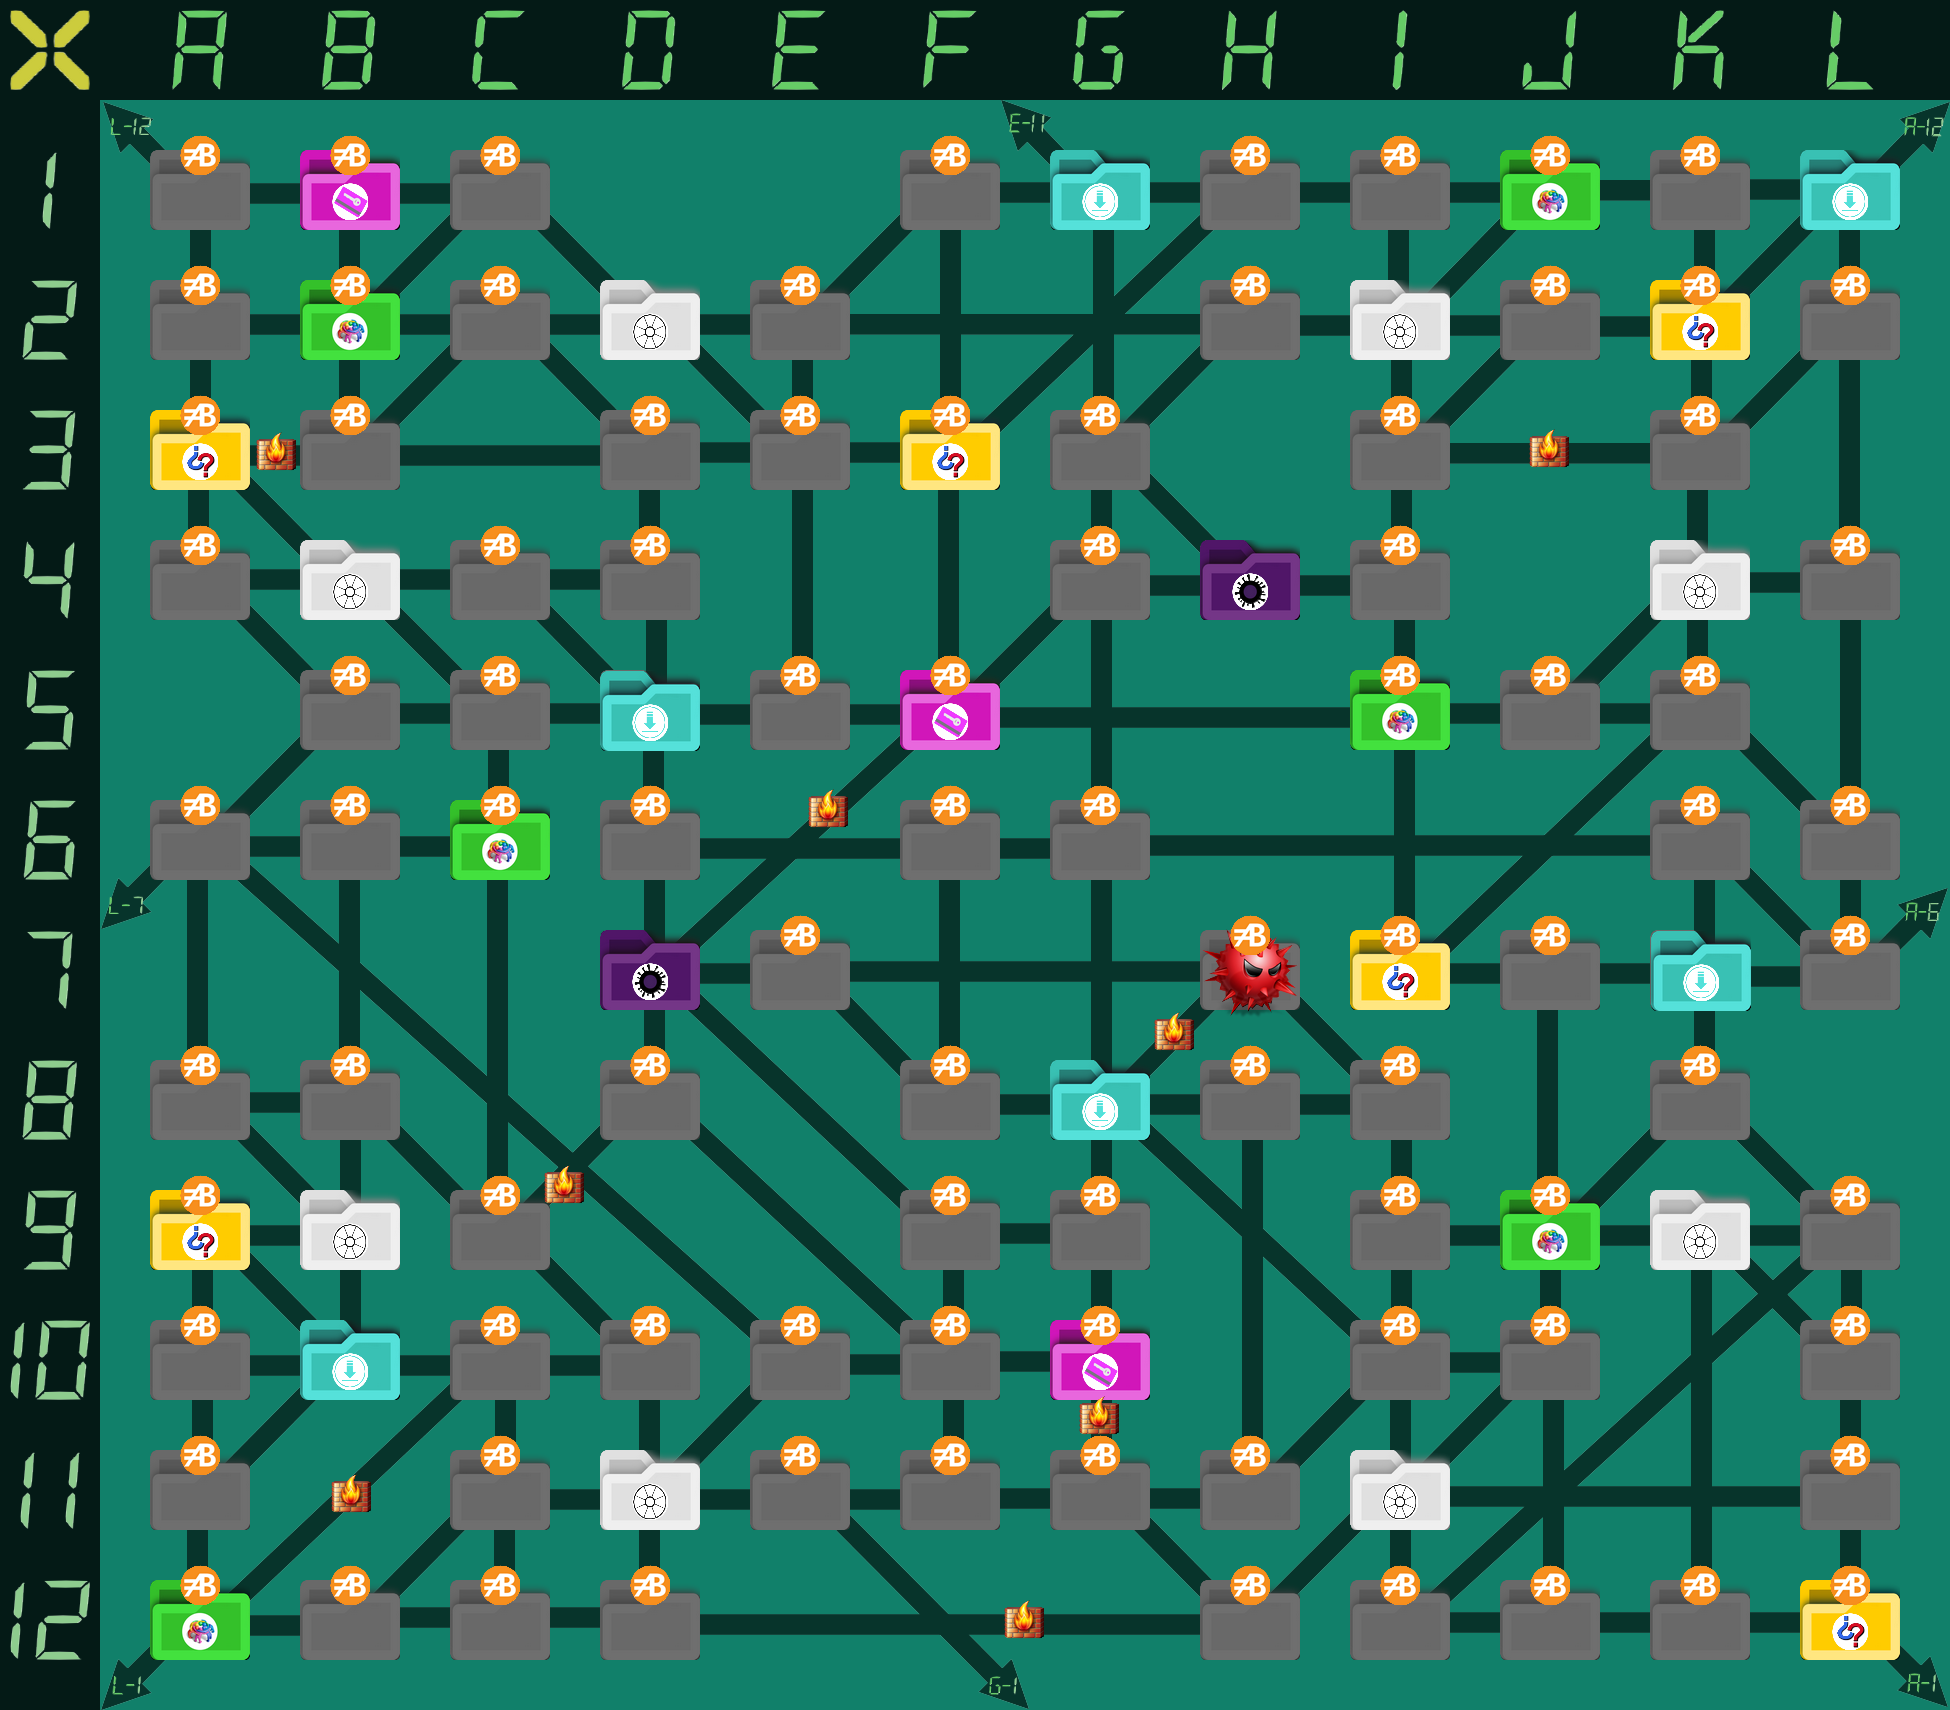
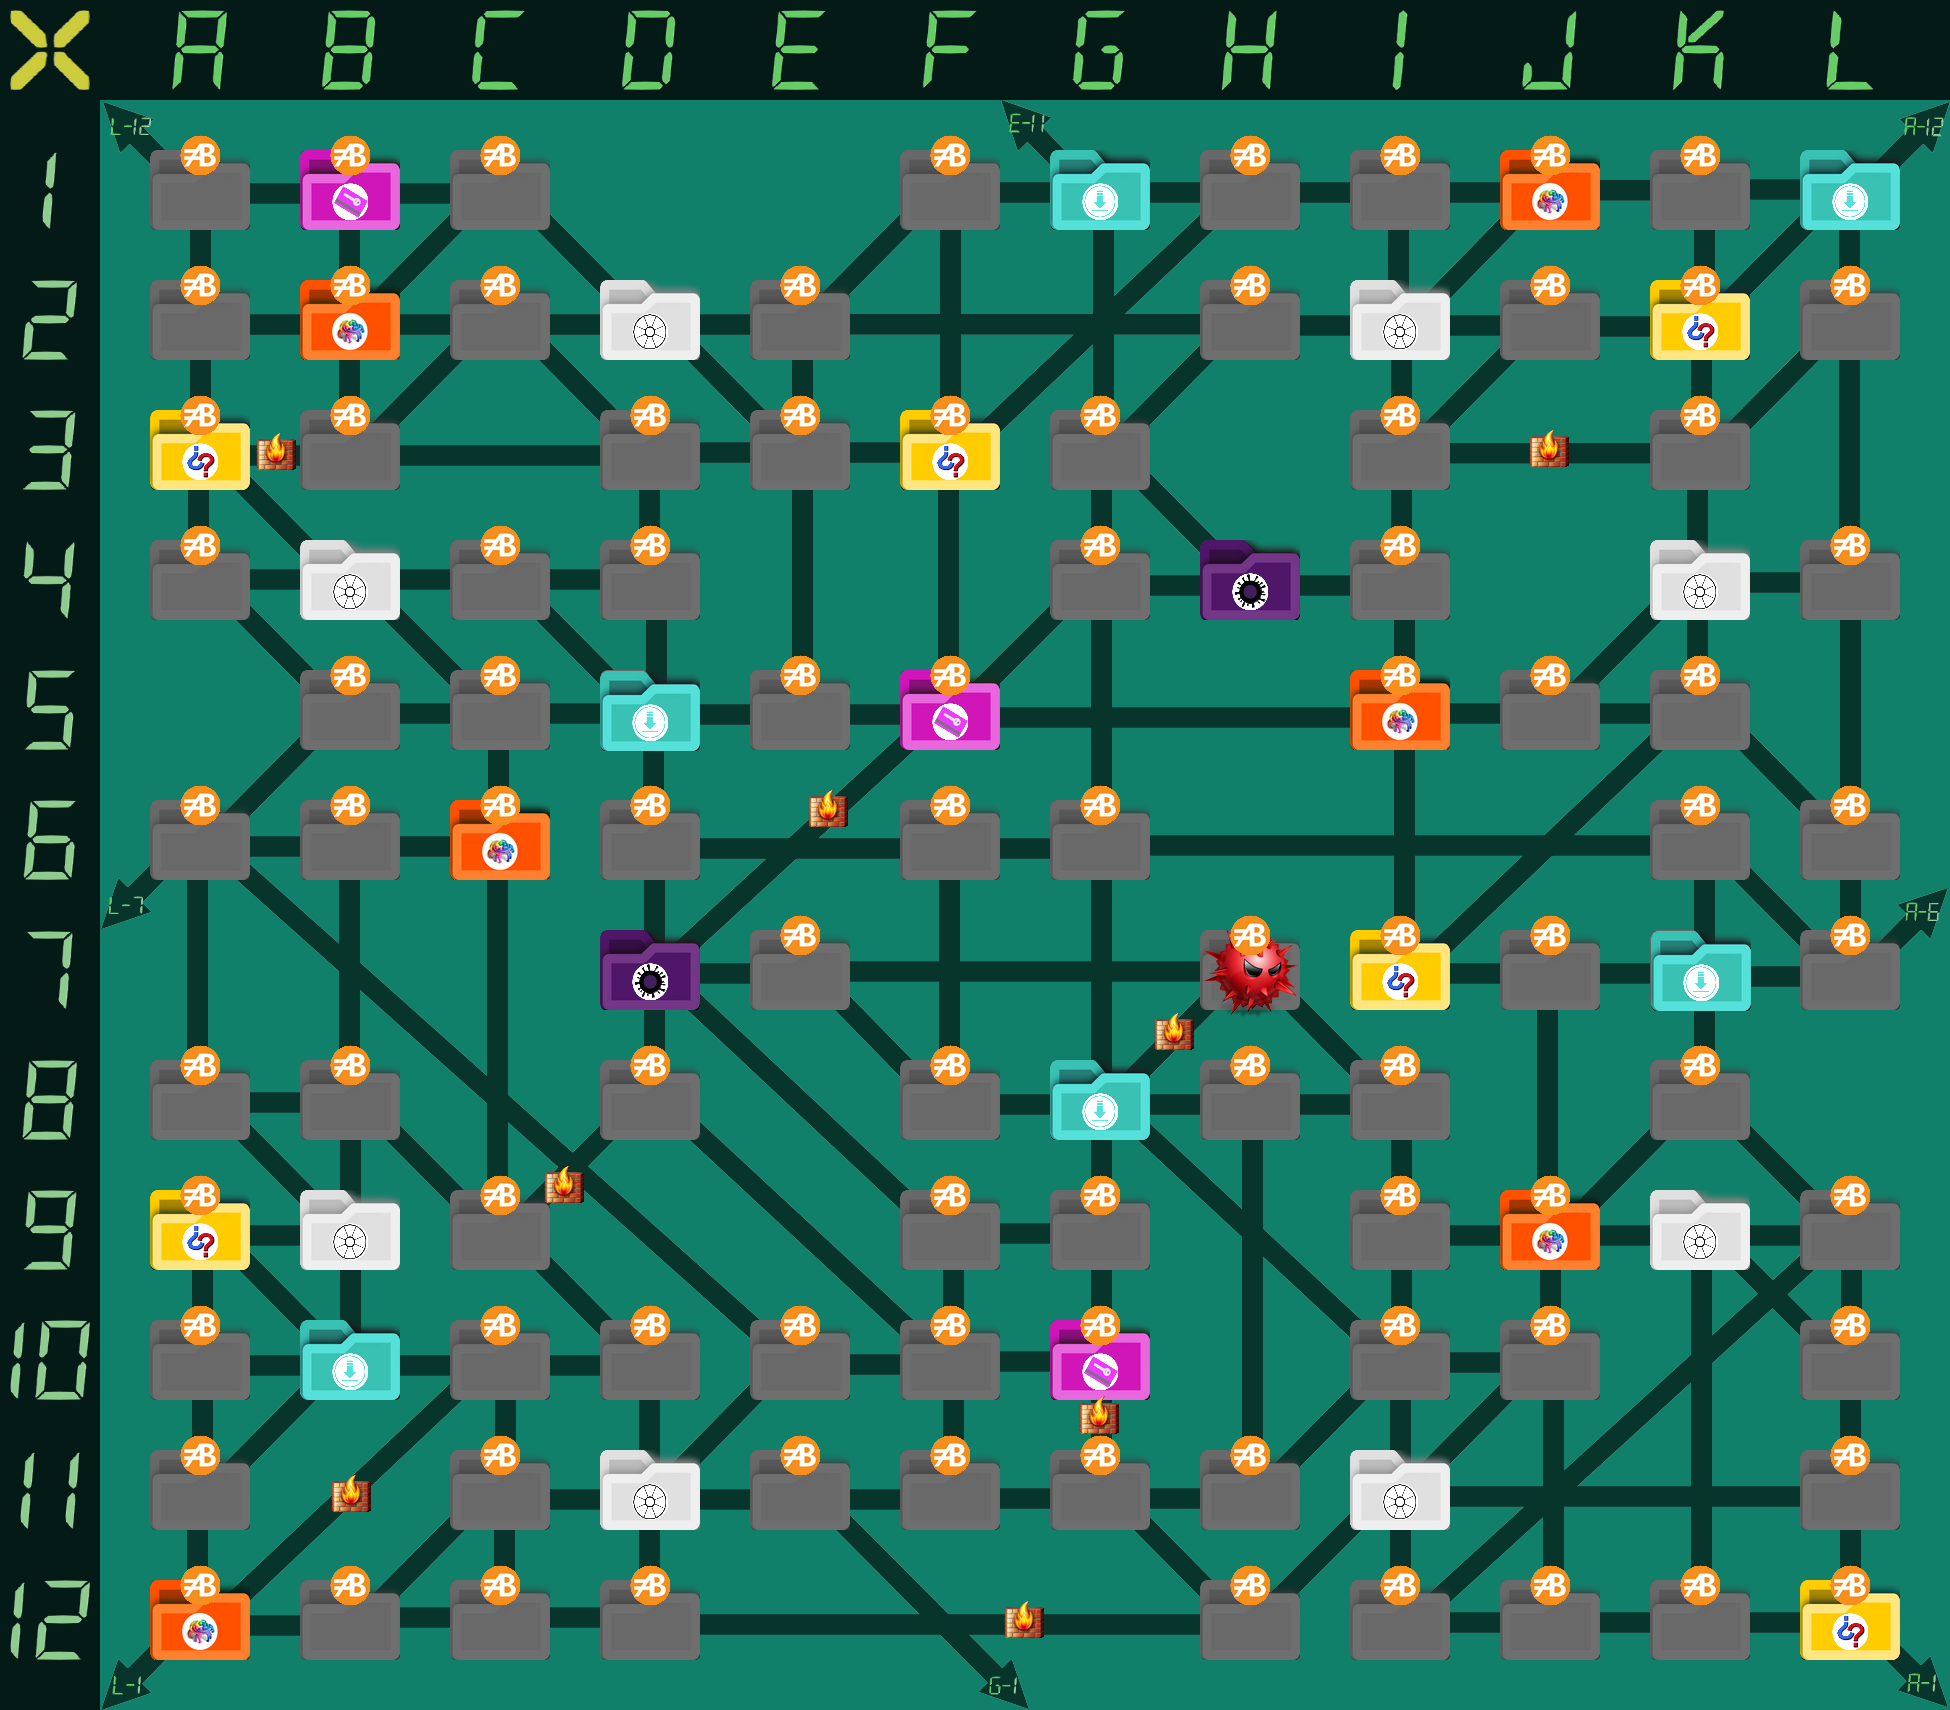
Add files via upload

diff --git a/Roletas - Datamining.html b/Roletas - Datamining.html
@@ -448,14 +448,14 @@
             { texto: "Jo-Ken-Po", cor: "#014A4A", corTexto: "#FFFFFF", peso: 1 }
         ]},
         "Cooperativo-c": { imagem: "Roleta (5).png", itens: [
-            { texto: "Top 10", cor: "#D600D6", corTexto: "#000000", peso: 1 },
-            { texto: "Conexo", cor: "#A500A5", corTexto: "#FFFFFF", peso: 1 },
-            { texto: "Segue o Fluxo", cor: "#D600D6", corTexto: "#000000", peso: 1 },
-            { texto: "C-S-Composto", cor: "#A500A5", corTexto: "#FFFFFF", peso: 1 },
-            { texto: "Quiz", cor: "#D600D6", corTexto: "#000000", peso: 1 },
-            { texto: "Sintonia", cor: "#A500A5", corTexto: "#FFFFFF", peso: 1 },
-            { texto: "Tibitar", cor: "#D600D6", corTexto: "#000000", peso: 1 },
-            { texto: "Batata Quente Alfabética", cor: "#A500A5", corTexto: "#FFFFFF", peso: 1 }
+            { texto: "Top 10", cor: "#FF802F", corTexto: "#000000", peso: 1 },
+			{ texto: "Conexo", cor: "#FF5100", corTexto: "#000000", peso: 1 },
+			{ texto: "Segue o Fluxo", cor: "#FF802F", corTexto: "#000000", peso: 1 },
+			{ texto: "C-S-Composto", cor: "#FF5100", corTexto: "#000000", peso: 1 },
+			{ texto: "Quiz", cor: "#FF802F", corTexto: "#000000", peso: 1 },
+			{ texto: "Sintonia", cor: "#FF5100", corTexto: "#000000", peso: 1 },
+			{ texto: "Tibitar", cor: "#FF802F", corTexto: "#000000", peso: 1 },
+			{ texto: "Batata Quente Alfabética", cor: "#FF5100", corTexto: "#000000", peso: 1 }
         ]},
         "Quarentena": { imagem: "Roleta (6).png", itens: [
             { texto: "Nada acontece", cor: "#2E005C", corTexto: "#FFFFFF", peso: 1 },
